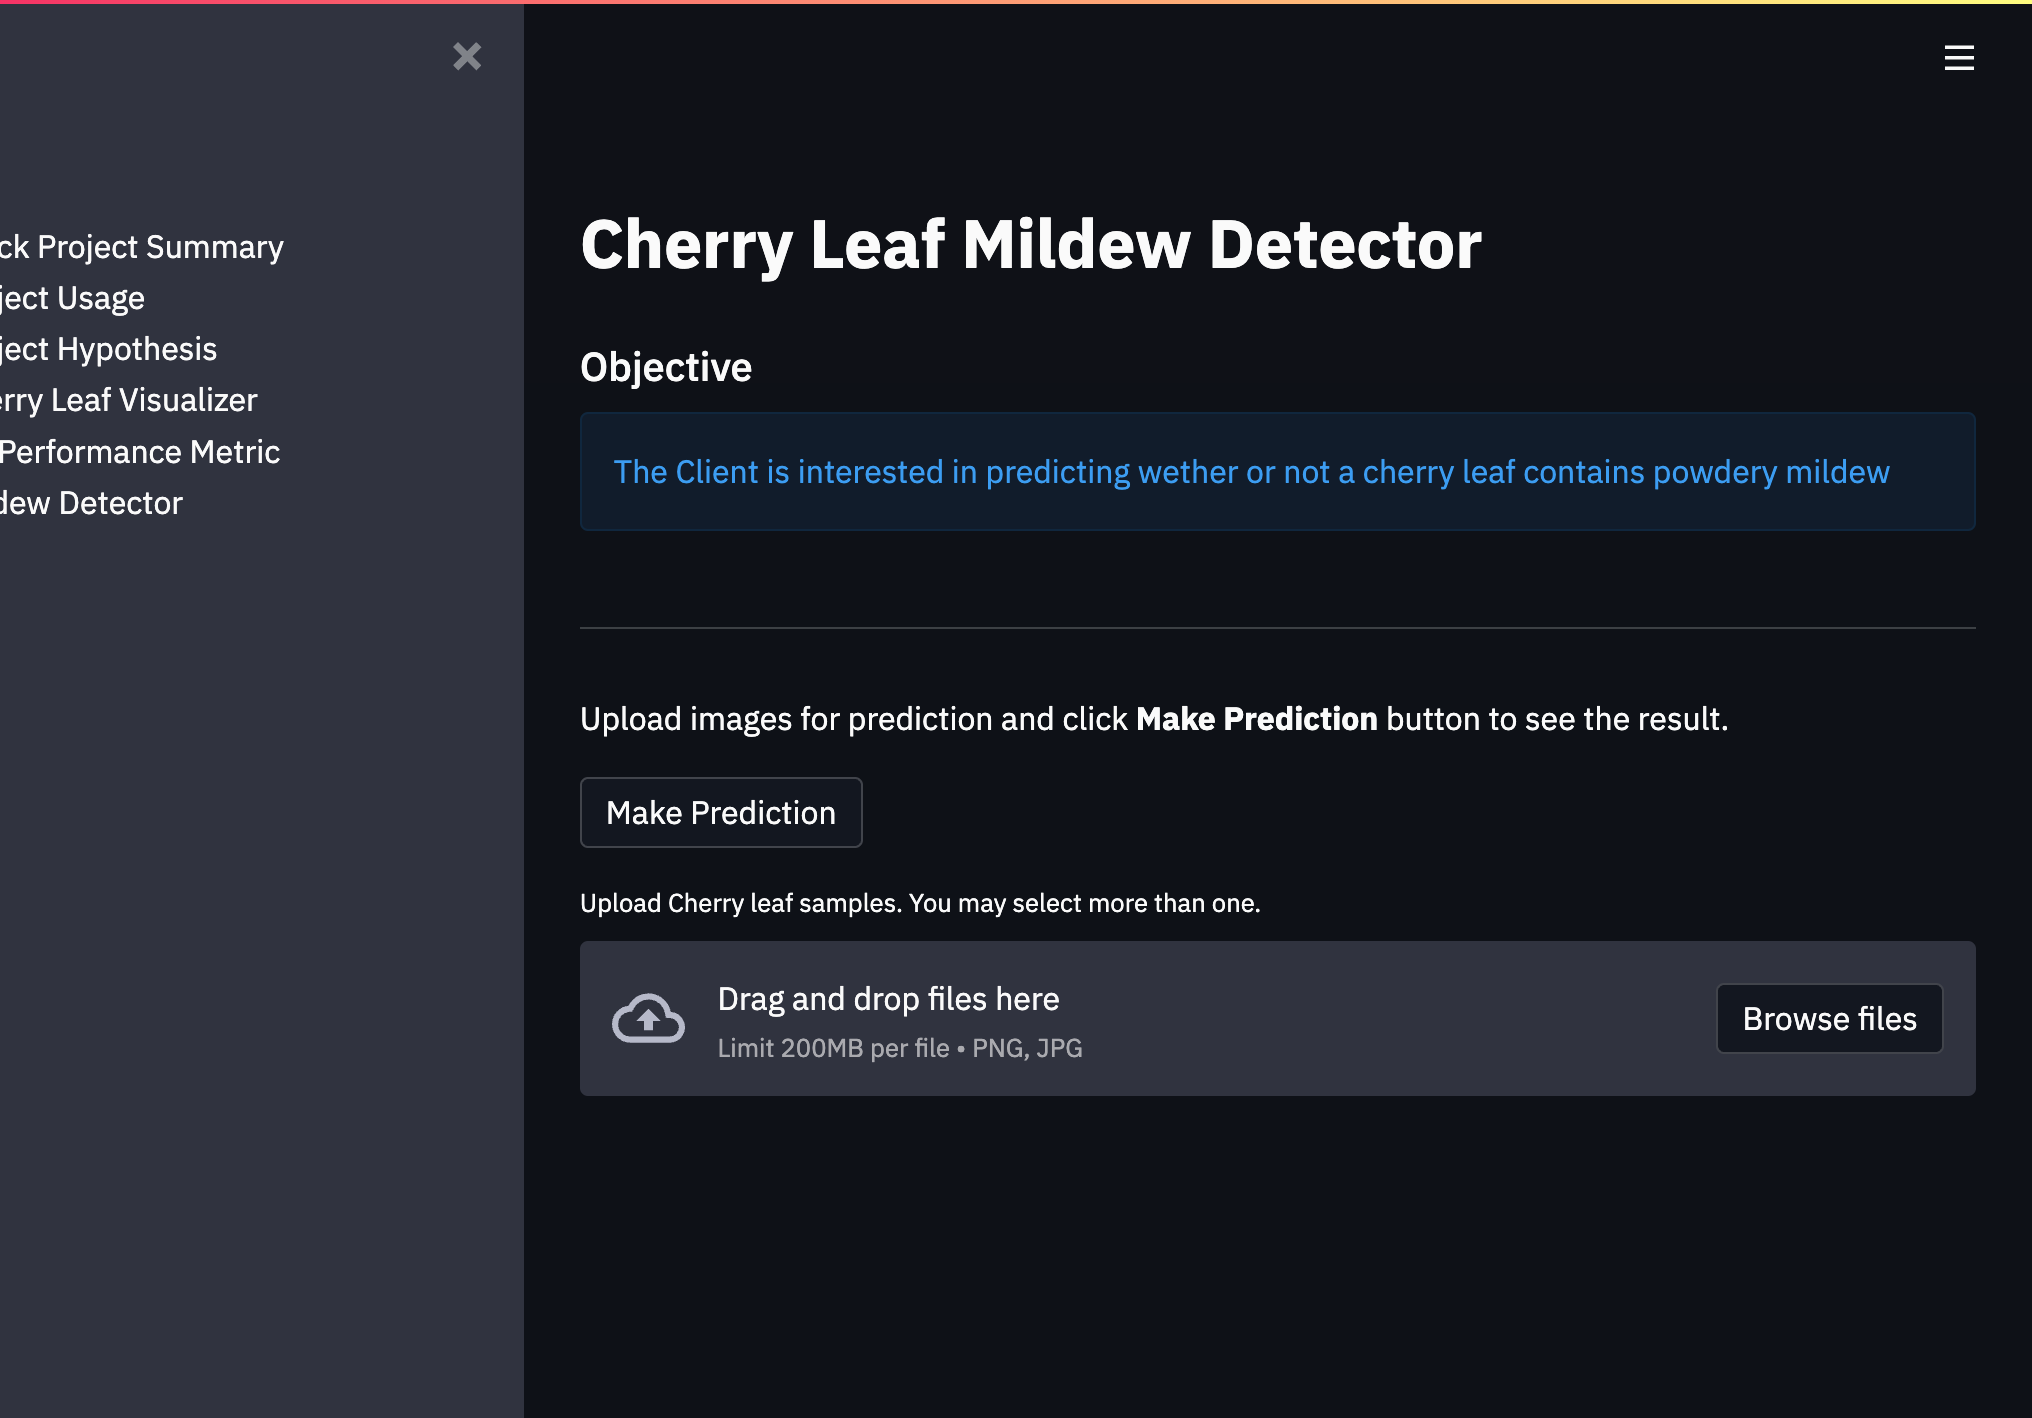
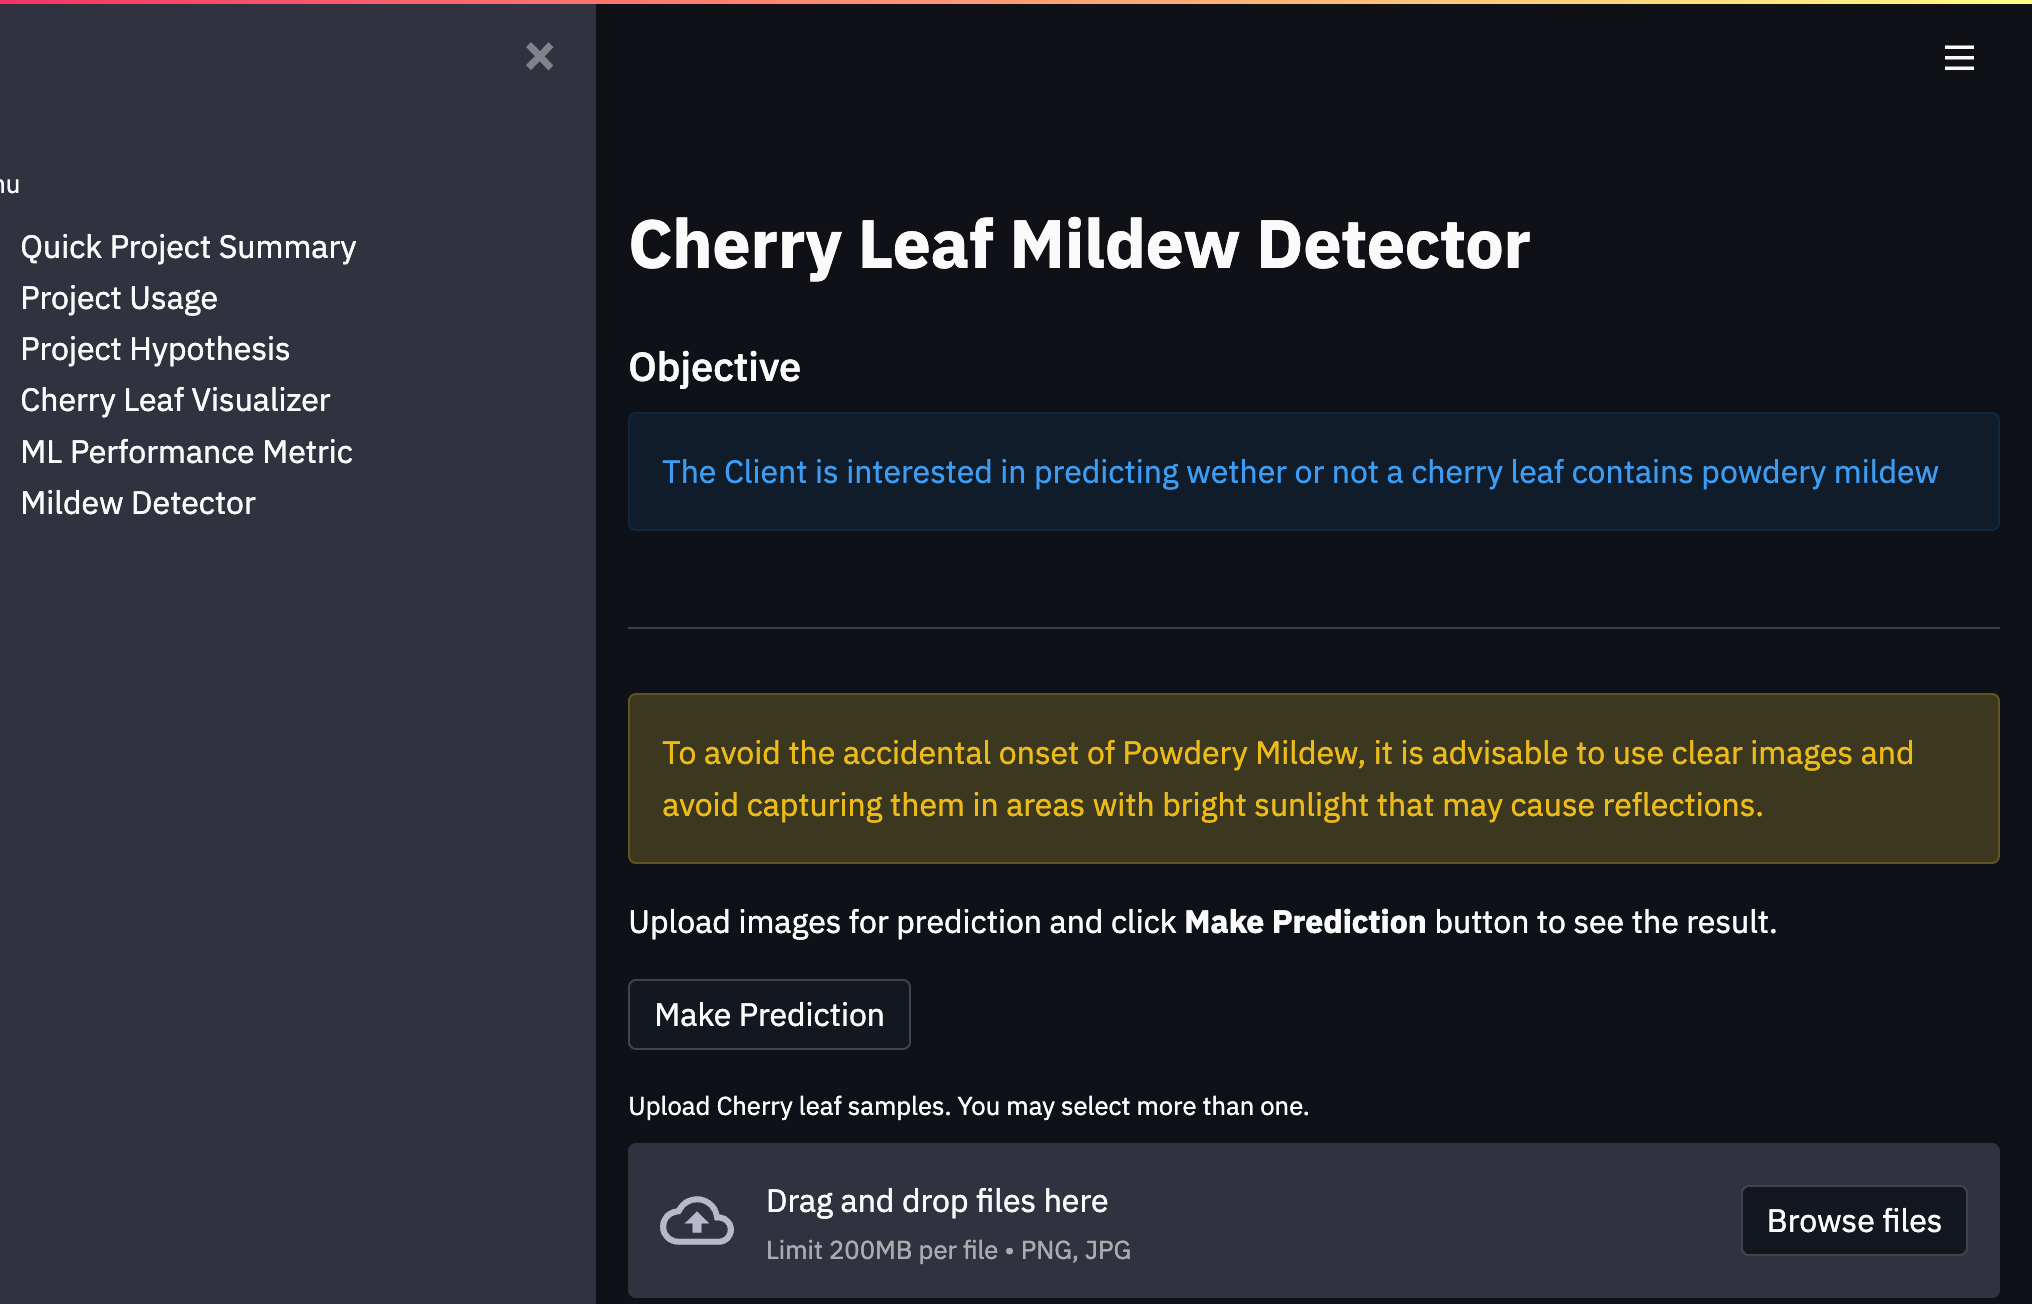
added section about having clear and good images and an updated image on the readme file

diff --git a/app_pages/mildew_detector.py b/app_pages/mildew_detector.py
@@ -18,6 +18,11 @@ def page_mildew_detection_page():
     )
     st.write('---')
 
+    st.warning(
+        f"To avoid the accidental onset of Powdery Mildew, it is advisable "
+        f"to use clear images and avoid capturing them in areas with bright "
+        f"sunlight that may cause reflections."
+    )
     st.write('Upload images for prediction and click **Make Prediction** button to see the result.')
     btn_predict = st.button("Make Prediction")
     images_buffer = st.file_uploader(
